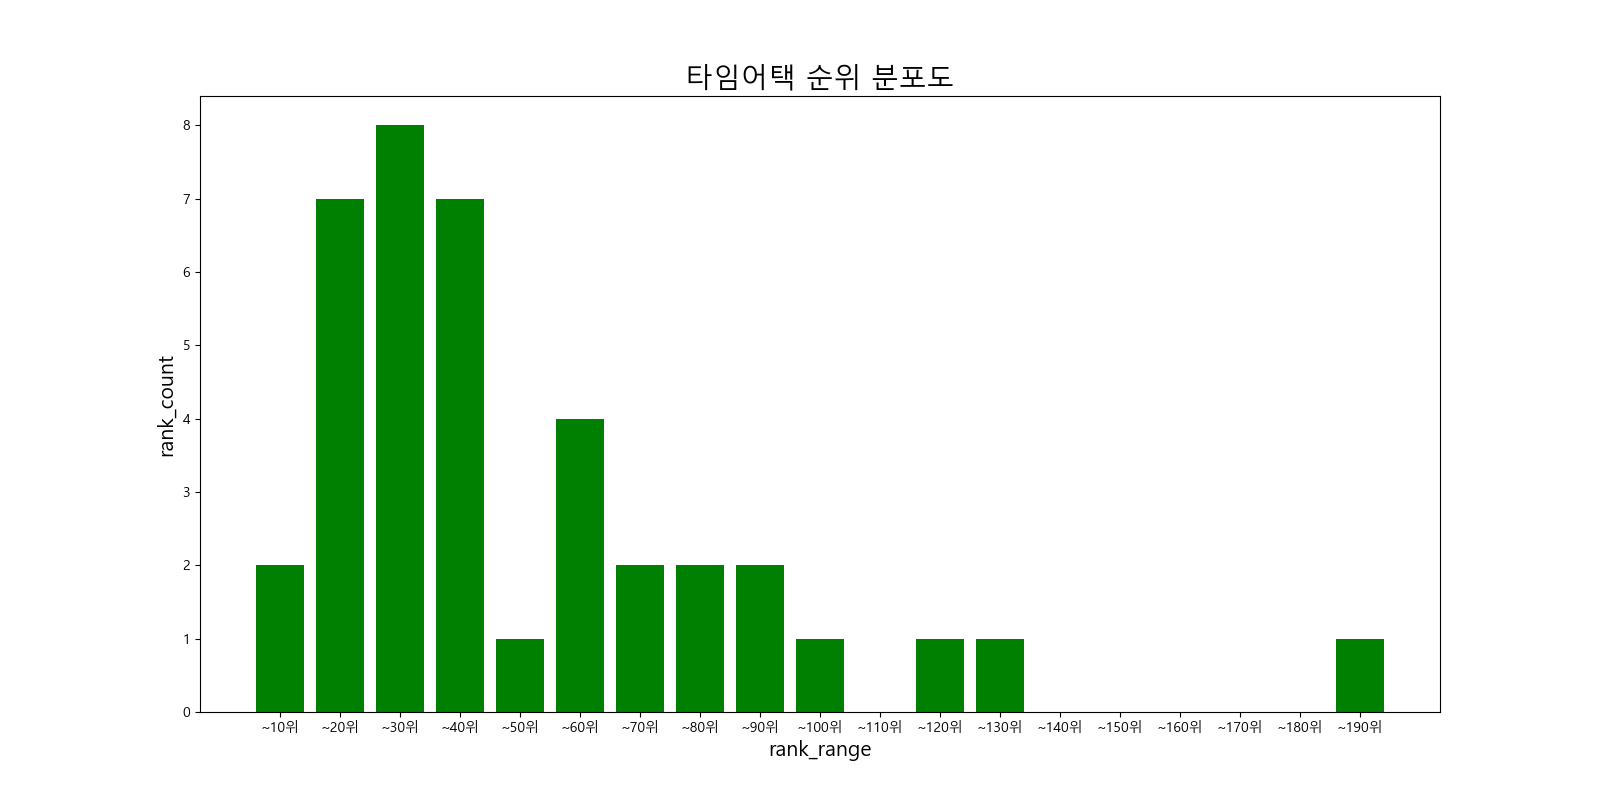
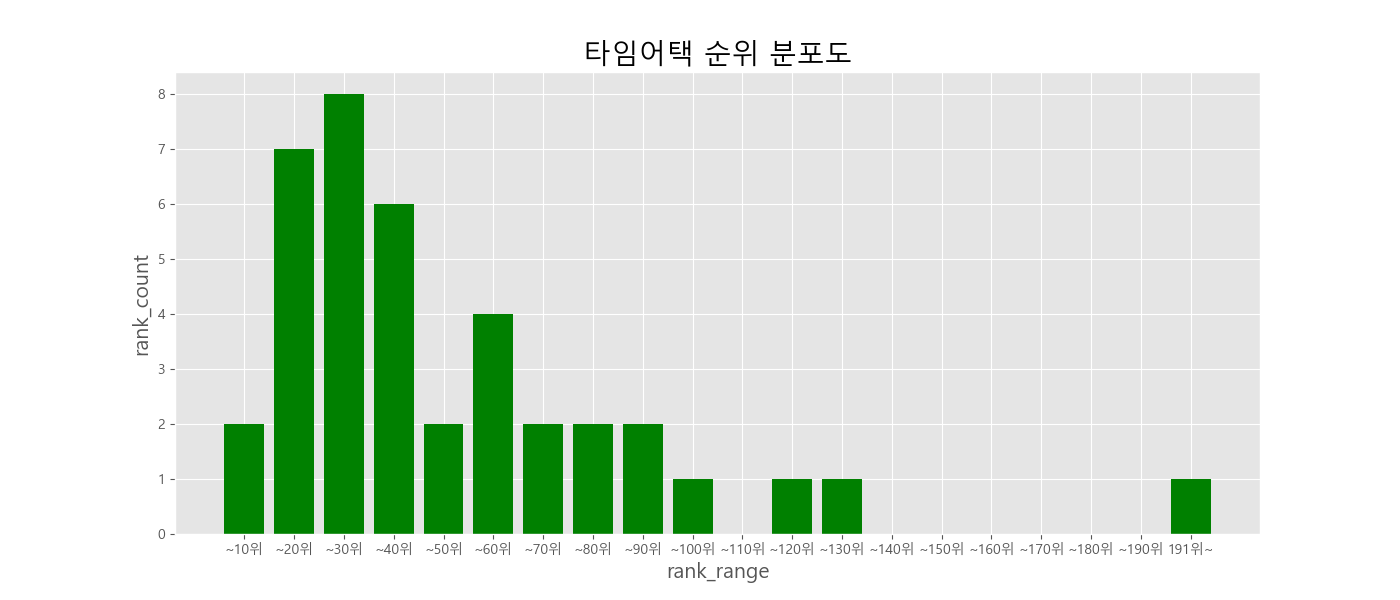
190825 | add img_save, rank_range to analysis_data

diff --git a/pages/views.py b/pages/views.py
@@ -41,7 +41,7 @@ def collect_situation(request):
             re_url = f'http://kart.nexon.com/Garage/Record?oidUser={oidUser}&gpage=1&tpage={i}&lc={adjust_num}'
             re_html = requests.get(re_url).text
             re_soup = BeautifulSoup(re_html, 'html.parser')
-            data = re_soup.select_one('#CntTime > div > div.CntTime3 > div.CntTime2Sec > table > tbody > tr:nth-child(1) > td.CntTime2L4 > span.TxtBlu').text
+            # data = re_soup.select_one('#CntTime > div > div.CntTime3 > div.CntTime2Sec > table > tbody > tr:nth-child(1) > td.CntTime2L4 > span.TxtBlu').text
         except AttributeError:
             break
 
@@ -124,6 +124,7 @@ def analysis_data(request):
             plt.pie(car_count, labels=car_kind, autopct='%1.f%%', startangle=90, textprops={'fontsize': 16})
             plt.title('타임어택에서 사용된 차량의 비율', fontsize=20)
             plt.legend(fontsize=11)
+            plt.savefig(f'data_graph_img/car_rate_{user_nickname}_S{select_speed}.png')
             plt.savefig(f'pages/static/pages/images/car_rate.png')
             result = '1'
         else: # 타임어택 순위 분포도
@@ -136,6 +137,7 @@ def analysis_data(request):
             rank_count = [0] * ((max_rank//divisor)) if not max_rank % divisor else [0] * ((max_rank//divisor)+1)
             for i in range(divisor, max_rank + divisor, divisor):
                 x_value.append(f'~{i}위')
+            x_value[-1] = f'{i - divisor + 1}위~'
 
             for rank in rank_list:
                 if not rank % divisor:
@@ -152,6 +154,7 @@ def analysis_data(request):
             plt.ylabel('rank_count', fontsize=15)
             plt.title('타임어택 순위 분포도', fontsize=20)
             # plt.xticks(index, x_value, fontsize=15)
+            plt.savefig(f'data_graph_img/rank_distribution_{user_nickname}_S{select_speed}_(gap_{divisor}).png')
             plt.savefig(f'pages/static/pages/images/rank_distribution.png')
             result = '2'
     else: # csv 파일이 존재하지 않는 경우

diff --git a/README.md b/README.md
@@ -35,3 +35,15 @@
   - 또한  `bootstrap`의 component인 `carousel`을 이용하여 상세 설명에서 예시과정 캡쳐화면을 추가
   - 각 메뉴 선택 후 `Move` 버튼을 클릭하면 각 해당 전용 페이지로 이동
   - `★Go to play Kartrider!★` : 카트라이더 메인 홈페이지 주소를 링크로 설정
+
+<br>
+
+## :four: Changes
+
+- `2019/08/25`
+  - `Collect Data`
+    - 데이터 수집 상태를 홈페이지에 출력되는 문구의 글꼴 수정
+  - `Analysis Data`
+    - 차트를 파일로 저장하여 활용할 수 있도록 `data_graph_img` 폴더에 자동으로 저장되도록 기능 추가
+    - `2.타임어택 순위 분포도` 차트 출력시 마지막 범위로 csv 파일에 저장된 rank의 최댓값을 기준으로 하여 그 이상 순위의 `rank_count`를 표시하도록 코드 수정
+    - csv 파일이 없어 데이터 분석을 할 수 없을 때 출력되는 문구의 글꼴 수정
